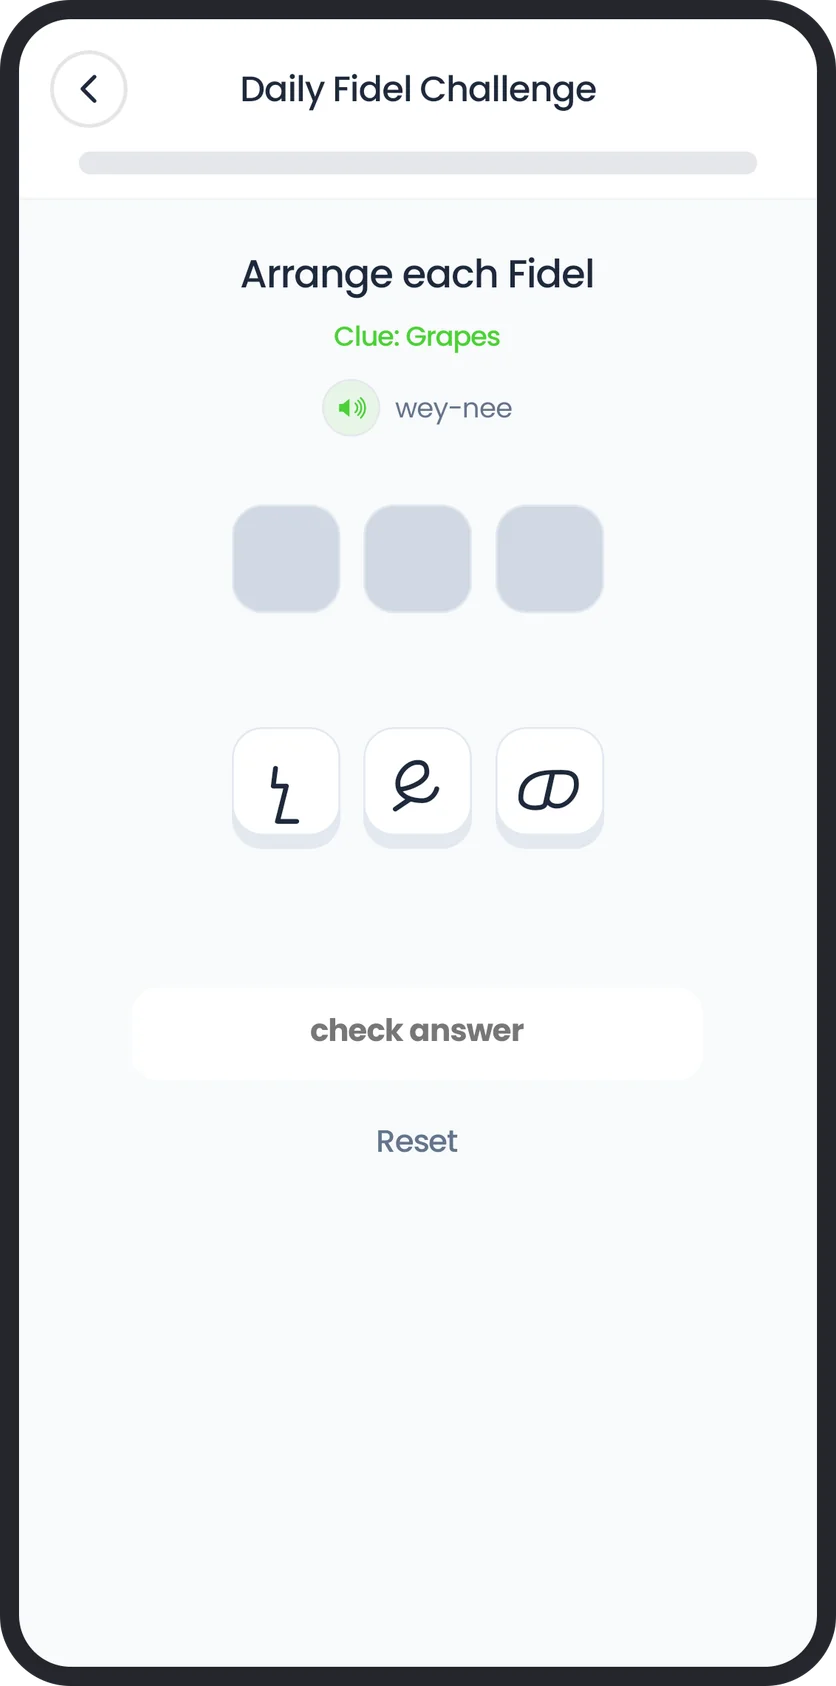
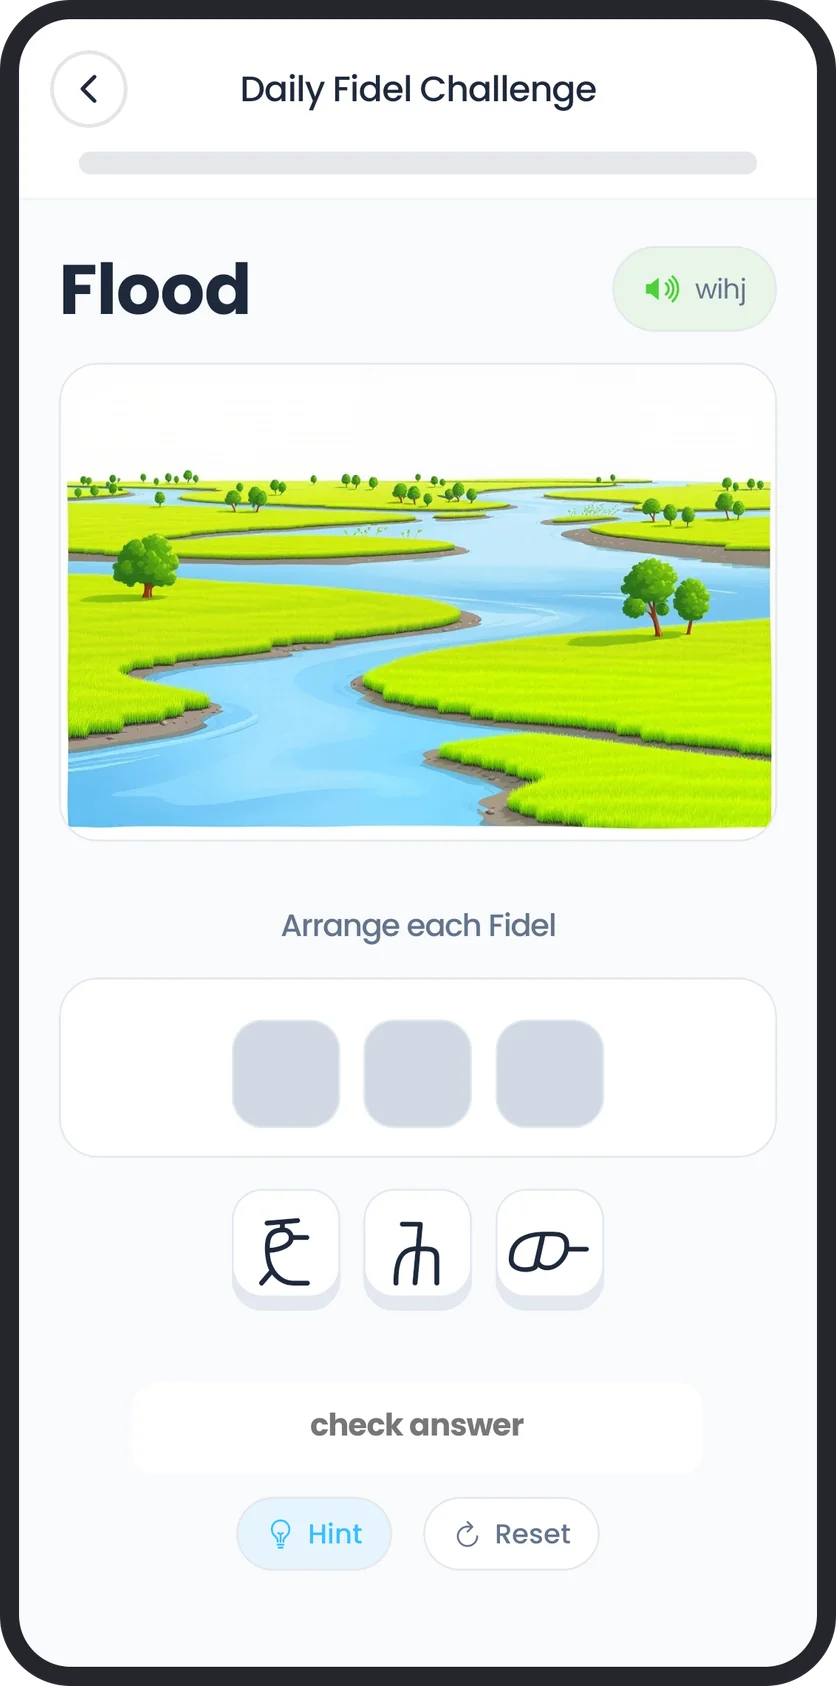
Daily Fidel Challenge: describe the picture, and show it
The app now shows each word's illustration above its English clue, so
the three descriptions that said you spell the word from its clue alone
were out of date. They now mention the picture as well.

The screenshot beside those descriptions had to change with them. It
was the old screen — no picture, a green "Clue:" line, no Hint button —
so the updated copy would have sat directly above an image contradicting
it. Recaptured from the 1.2.1 release build on a fresh puzzle; an earlier
capture had a wrong attempt saved in the tray with red error borders,
which is not what a visitor should see. Re-framed with
process-screenshots, and the other nine came out byte-identical.

diff --git a/src/lib/config.tsx b/src/lib/config.tsx
@@ -135,7 +135,7 @@ export const siteConfig = {
     {
       title: "Daily Puzzles & Fidel Challenge",
       description:
-        "Challenge yourself with daily crossword puzzles, and arrange the scrambled fidels to spell each day's word in the Daily Fidel Challenge.",
+        "Challenge yourself with daily crossword puzzles, and spell each day's word in the Daily Fidel Challenge by arranging its scrambled fidels, with a picture and an English clue to go on.",
       imageSrc: "/screenshots/daily-fidel.webp",
       direction: "rtl" as const,
     },
@@ -202,7 +202,7 @@ export const siteConfig = {
     },
     {
       id: 6,
-      text: "The Daily Fidel Challenge gives you a new word each day—arrange the fidels to spell it from its English clue.",
+      text: "The Daily Fidel Challenge gives you a new word each day—arrange the fidels to spell it from its picture and English clue.",
       image: "/screenshots/daily-fidel.webp",
     },
   ],
@@ -266,13 +266,14 @@ export const siteConfig = {
     {
       question: "What learning activities are included?",
       answerText:
-        "Each lesson includes flashcards, letter tracing, and word selection games. Beyond lessons, you'll find daily crossword puzzles and the Daily Fidel Challenge, where you arrange the scrambled fidels to spell the day's word. A dashboard keeps everything organized.",
+        "Each lesson includes flashcards, letter tracing, and word selection games. Beyond lessons, you'll find daily crossword puzzles and the Daily Fidel Challenge, where you arrange the scrambled fidels to spell the day's word from its picture and English clue. A dashboard keeps everything organized.",
       answer: (
         <span>
           Each lesson includes flashcards, letter tracing, and word selection
           games. Beyond lessons, you&apos;ll find daily crossword puzzles and
           the Daily Fidel Challenge, where you arrange the scrambled fidels to
-          spell the day&apos;s word. A dashboard keeps everything organized.
+          spell the day&apos;s word from its picture and English clue. A
+          dashboard keeps everything organized.
         </span>
       ),
     },
